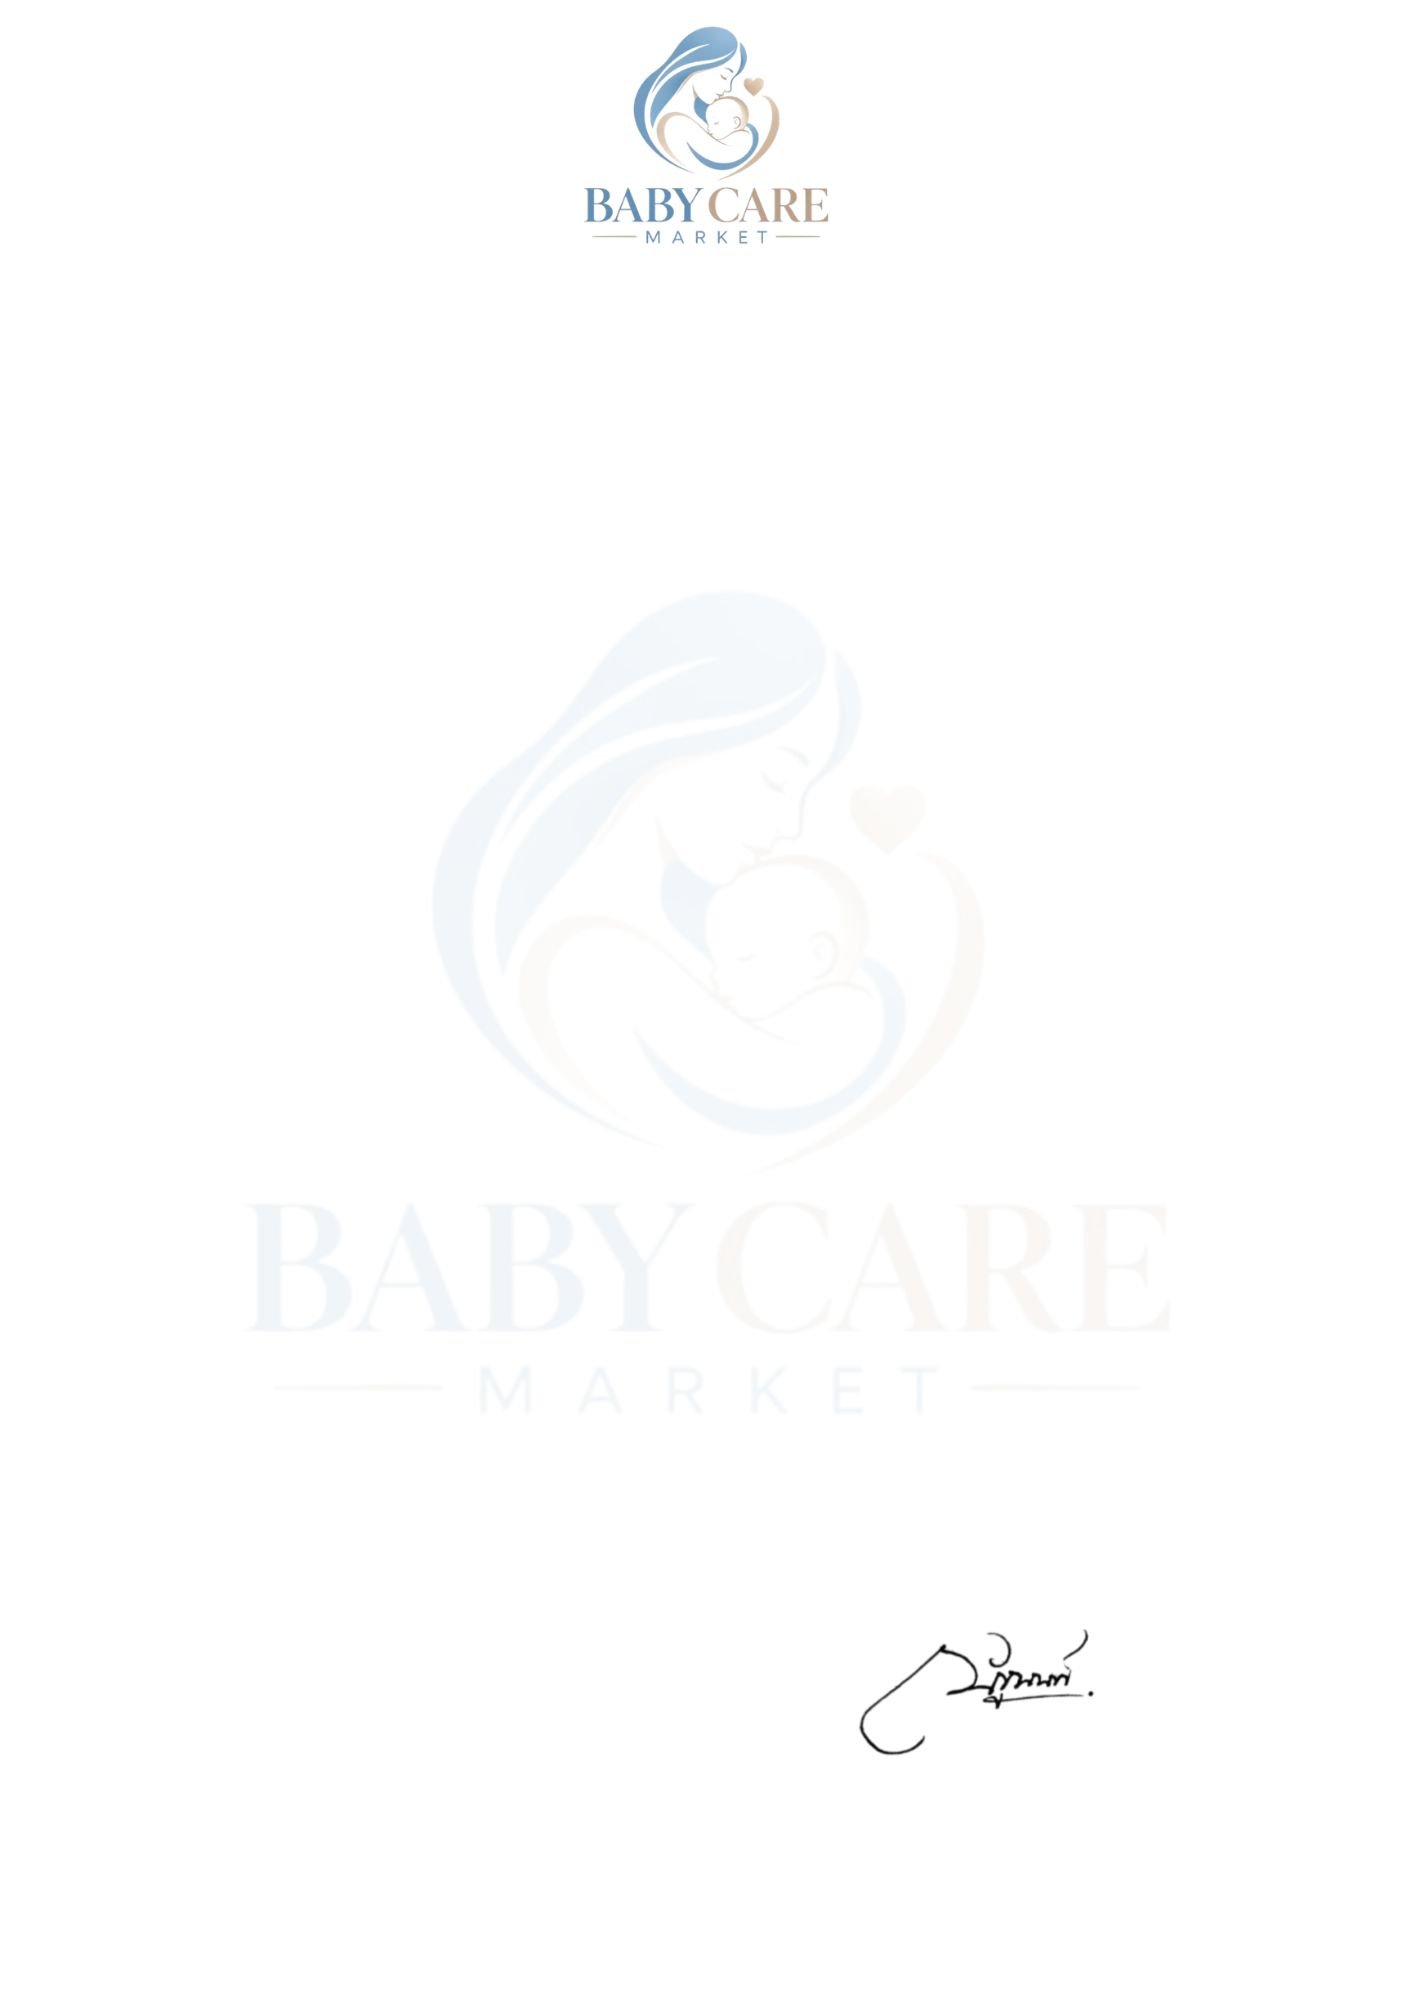
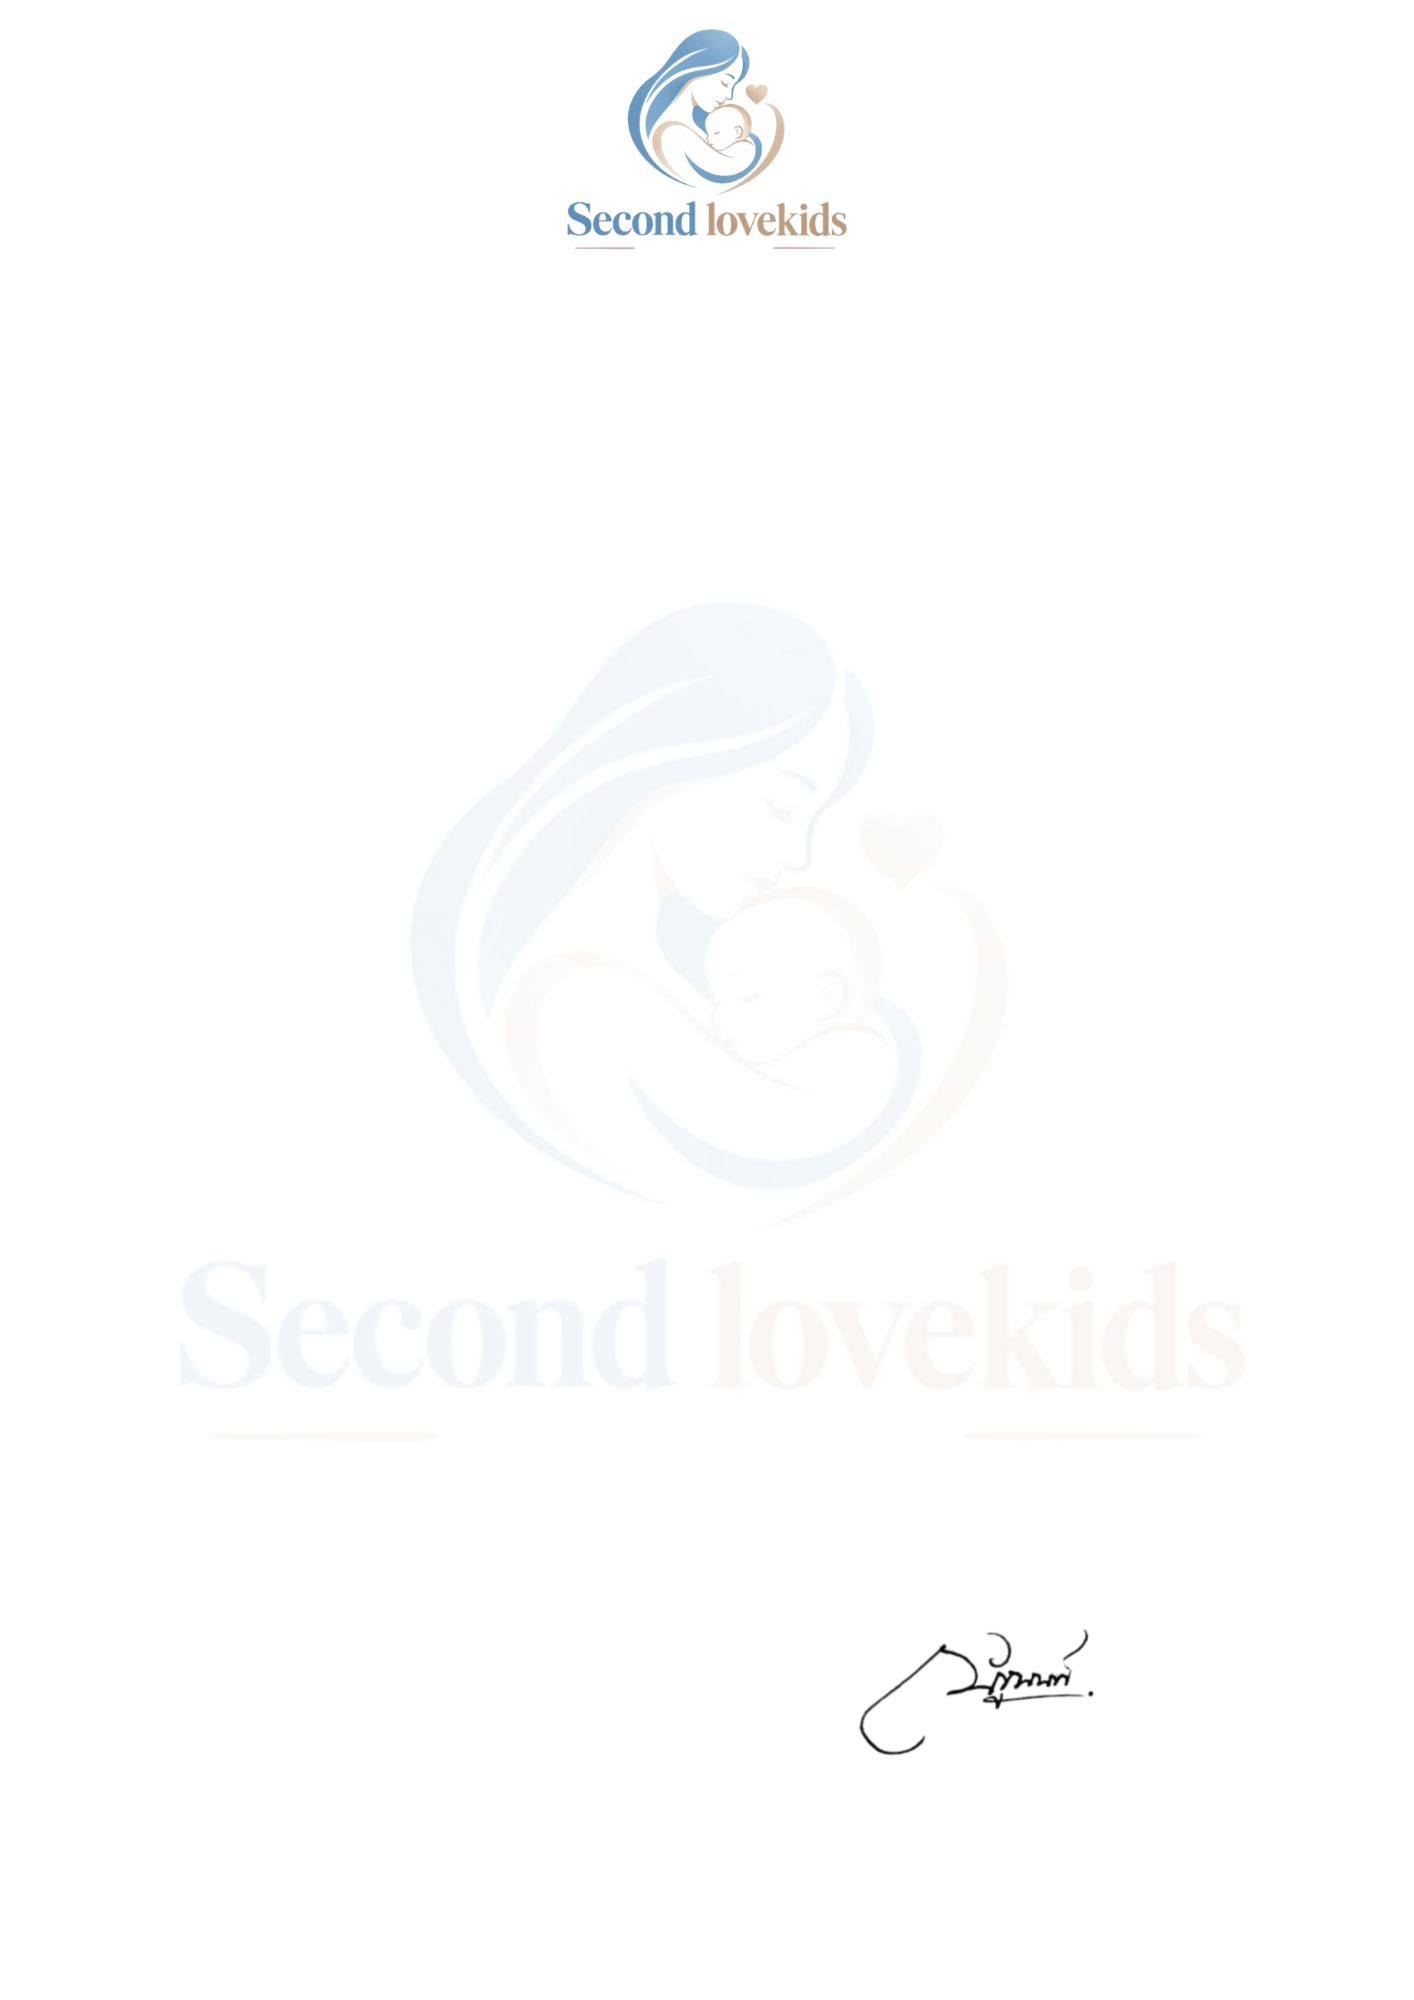
แพลตฟอร์ม SECOND LOVEKIDS

Changed region(s): [[0.4045, 0.0, 0.5912, 0.124]]

diff --git a/help.html b/help.html
@@ -5,36 +5,29 @@
     <meta name="viewport" content="width=device-width, initial-scale=1.0">
     <title>กองทุนช่วยเหลือ</title>
     
-    <!-- ฟอนต์ที่ใช้ -->
     <link href="https://fonts.googleapis.com/css2?family=Kanit:wght@300;400;500;600;700&family=Sarabun:wght@300;400;500;600;700&display=swap" rel="stylesheet">
     <link rel="icon" type="image/png" href="assets/imagestime/logo.png">
     
-    <!-- เชื่อมโยงไฟล์ CSS ของโครงสร้างระบบใหม่ -->
     <link rel="stylesheet" href="css/time.css">
     
-    <!-- ป้องกันการแคช -->
     <meta http-equiv="Cache-Control" content="no-cache, no-store, must-revalidate"/>
     <meta http-equiv="Pragma" content="no-cache"/>
     <meta http-equiv="Expires" content="0"/>
 </head>
 <body onload="if(typeof updateDisplay === 'function') updateDisplay()">
 
-    <!-- แจ้งเตือนเวลาดาวน์โหลดรูป -->
     <div id="copy-toast">✅ ดาวน์โหลดรูปภาพแล้ว</div>
 
-    <!-- Sidebar ด้านซ้าย -->
     <aside class="sidebar">
-        <!-- ปุ่มโหลดรูปภาพด้านบนสุด -->
         <button class="btn-copy-top" id="btn-copy" onclick="if(typeof downloadImage === 'function') downloadImage()">
             📸 ดาวน์โหลดรูปภาพ
         </button>
 
-        <!-- ชุดฟอร์มกรอกข้อมูล -->
         <div class="form-container">
             <div class="form-group">
                 <label>เลือกพื้นหลังบริษัท</label>
                 <select id="backgroundSelect" name="backgroundSelect" onchange="updateDisplay()">
-                    <option value="/assets/image/paper/paper2.1.jpg">BABY CARE
+                    <option value="/assets/image/paper/paper2.1.jpg">SECOND LOVEKIDS
                     <option value="/assets/image/paper/paper2.0.jpg">ไม่มี</option>
                 </select>
             </div>
@@ -74,7 +67,6 @@
                 <input type="text" id="footnote" value="ระบบจะปรับปรุงตามจำนวนเงินที่ยื่นเรื่อง โดยนำเงินกองทุนช่วยเหลือไปพร้อมกับเงินยื่นเรื่อง สมาชิกดำเนินการให้เสร็จสิ้นตามขั้นตอนที่กำหนด" oninput="updateDisplay()">
             </div>
 
-            <!-- ขีดเส้นคั่นแบ่งโซนข้อมูลบริษัท -->
             <hr style="margin: 20px 0; border: none; border-bottom: 1px solid #e2e8f0;">
 
             <div class="form-group">
@@ -100,7 +92,7 @@
 
         <button class="btn-dashboard" onclick="window.location.href='index.html'">
             <img src="assets/imagestime/logo.png" alt="icon" style="width: 24px; height: 24px; object-fit: contain;">
-            กลับหน้าหลัก (Dashboard)
+            กลับหน้าหลัก
         </button>
     </aside>
 

diff --git a/ai_contract.html b/ai_contract.html
@@ -3,7 +3,7 @@
 <head>
     <meta charset="UTF-8">
     <meta name="viewport" content="width=device-width, initial-scale=1.0">
-    <title>LITTLE LUXE CENTER - Dashboard</title>
+    <title>SECOND LOVEKIDS</title>
     
     <script src="https://cdn.tailwindcss.com"></script>
     <link rel="stylesheet" href="https://cdn.jsdelivr.net/npm/bootstrap-icons@1.11.3/font/bootstrap-icons.min.css">
@@ -78,7 +78,7 @@
                 <div class="w-9 h-9 bg-white/20 backdrop-blur-md rounded-lg p-1.5 flex-shrink-0 flex items-center justify-center border border-white/20">
                     <img src="assets/images3/logo1.png" class="w-full h-full object-contain drop-shadow-sm">
                 </div>
-                <span class="text-white font-bold text-[14px] tracking-wide text-left relative z-10">LITTLE LUXE CENTER</span>
+                <span class="text-white font-bold text-[14px] tracking-wide text-left relative z-10">SECOND LOVEKIDS</span>
             </button>
         </div>
         
@@ -180,7 +180,7 @@
         <div class="bg-white rounded-xl shadow-2xl w-full max-w-[500px] p-8 sm:p-10 flex flex-col items-center pop-up">
             <div class="flex flex-col items-center justify-center gap-2 mb-8">
                 <img id="result-form-logo" src="assets/images3/logo1.png" alt="Logo" class="h-[80px] w-auto object-contain drop-shadow-sm mb-1">
-                <h1 class="text-2xl font-bold text-[#0052CC] tracking-wide uppercase" id="result-head-title">LITTLE LUXE CENTER</h1>
+                <h1 class="text-2xl font-bold text-[#0052CC] tracking-wide uppercase" id="result-head-title">SECOND LOVEKIDS</h1>
             </div>
             
             <h2 id="result-title" class="text-xl font-bold mb-4">ผลการตรวจสอบรหัสสำคัญ</h2>
@@ -241,11 +241,9 @@
                             const diffMs = realExpireDate - now;
 
                             if (diffMs > 0) {
-                                // คำนวณวันและชั่วโมง
                                 const diffDays = Math.floor(diffMs / (1000 * 60 * 60 * 24));
                                 const diffHours = Math.floor((diffMs % (1000 * 60 * 60 * 24)) / (1000 * 60 * 60));
                                 
-                                // จัดรูปแบบวันที่ให้แสดงผลสวยงาม (DD/MM/YYYY HH:MM)
                                 const day = realExpireDate.getDate().toString().padStart(2, '0');
                                 const month = (realExpireDate.getMonth() + 1).toString().padStart(2, '0');
                                 const year = realExpireDate.getFullYear() + 543; // แปลงเป็น พ.ศ.

diff --git a/repair.html b/repair.html
@@ -3,7 +3,7 @@
 <head>
     <meta charset="UTF-8">
     <meta name="viewport" content="width=device-width, initial-scale=1.0">
-    <title>ซ่อมบันทึก BABY CARE MARKET</title>
+    <title>ซ่อมบันทึก SECOND LOVEKIDS</title>
     
     <script src="https://cdn.tailwindcss.com"></script>
     <script src="https://unpkg.com/alpinejs@3.x.x/dist/cdn.min.js" defer></script>
@@ -79,7 +79,7 @@
                                 <img src="assets/imagesrepair/logo1.png" alt="Logo" class="w-16 h-16 object-contain rounded-lg shadow-sm">
                             </div>
                             <div class="flex flex-col justify-center">
-                                <h1 class="text-[#1a4f9c] font-black text-2xl tracking-tight leading-none">BABY CARE MARKET</h1>
+                                <h1 class="text-[#1a4f9c] font-black text-2xl tracking-tight leading-none">SECOND LOVEKIDS</h1>
                                 <p class="text-[#4a90e2] text-[10px] font-bold tracking-[0.15em] uppercase mt-1">Standard Digital Compliance</p>
                             </div>
                         </div>
@@ -135,7 +135,7 @@
                             </tr>
                             <tr>
                                 <td class="align-top">•</td>
-                                <td class="text-[13.5px]">ทาง BABY CARE MARKET ได้วางเงินประกันจำนวนเงินไว้กับแพลตฟอร์มของเราเป็นที่เรียบร้อยแล้ว แผนการซ่อมแก้ไขบิลแบบยืนยันใหม่เป็นเงิน&nbsp;<span class="text-blue-600 font-bold" x-text="smartFormat(baseRepair)"></span>&nbsp;บาท บันทึกช่วยจำ :&nbsp;<span class="font-bold" x-text="memoText"></span></td>
+                                <td class="text-[13.5px]">ทาง SECOND LOVEKIDS ได้วางเงินประกันจำนวนเงินไว้กับแพลตฟอร์มของเราเป็นที่เรียบร้อยแล้ว แผนการซ่อมแก้ไขบิลแบบยืนยันใหม่เป็นเงิน&nbsp;<span class="text-blue-600 font-bold" x-text="smartFormat(baseRepair)"></span>&nbsp;บาท บันทึกช่วยจำ :&nbsp;<span class="font-bold" x-text="memoText"></span></td>
                             </tr>
                             <tr>
                                 <td class="align-top">•</td>

diff --git a/repair3.html b/repair3.html
@@ -3,7 +3,7 @@
 <head>
     <meta charset="UTF-8">
     <meta name="viewport" content="width=device-width, initial-scale=1.0">
-    <title>ซ่อม 3% BABY CARE MARKET</title>
+    <title>ซ่อม 3% SECOND LOVEKIDS</title>
     
     <script src="https://cdn.tailwindcss.com"></script>
     <script src="https://unpkg.com/alpinejs@3.x.x/dist/cdn.min.js" defer></script>
@@ -79,7 +79,7 @@
                                 <img src="assets/images3/logo1.png" alt="Logo" class="w-16 h-16 object-contain">
                             </div>
                             <div class="flex flex-col justify-center">
-                                <h1 class="text-[#1a4f9c] font-black text-2xl tracking-tight leading-none">BABY CARE MARKET</h1>
+                                <h1 class="text-[#1a4f9c] font-black text-2xl tracking-tight leading-none">SECOND LOVEKIDS</h1>
                                 <p class="text-[#4a90e2] text-[10px] font-bold tracking-[0.15em] uppercase mt-1">Standard Digital Compliance</p>
                             </div>
                         </div>
@@ -141,7 +141,7 @@
                             </tr>
                             <tr>
                                 <td class="align-top">•</td>
-                                <td class="text-[14.0px]">ทาง BABY CARE MARKET ได้วางวงเงินประกันระบบจำนวนเงินทั้งหมดเรียบร้อยแล้ว แผนงานครั้งละเป็นเงิน&nbsp;<span class="blue-primary font-bold" x-text="total"></span>&nbsp;บาท</td>
+                                <td class="text-[14.0px]">ทาง SECOND LOVEKIDS ได้วางวงเงินประกันระบบจำนวนเงินทั้งหมดเรียบร้อยแล้ว แผนงานครั้งละเป็นเงิน&nbsp;<span class="blue-primary font-bold" x-text="total"></span>&nbsp;บาท</td>
                             </tr>
                             <tr>
                                 <td class="align-top">•</td>

diff --git a/gc.html b/gc.html
@@ -9,10 +9,8 @@
     <link href="https://fonts.googleapis.com/css2?family=Kanit:wght@300;400;500;600;700&family=Sarabun:wght@300;400;500;600;700&display=swap" rel="stylesheet">
     <link rel="icon" type="image/png" href="assets/imagestime/logo.png">
     
-    <!-- เชื่อมโยงไฟล์ CSS ของโครงสร้างระบบใหม่ -->
     <link rel="stylesheet" href="css/time.css">
     
-    <!-- ป้องกันการแคช -->
     <meta http-equiv="Cache-Control" content="no-cache, no-store, must-revalidate"/>
     <meta http-equiv="Pragma" content="no-cache"/>
     <meta http-equiv="Expires" content="0"/>
@@ -26,12 +24,11 @@
             📸 ดาวน์โหลดรูปภาพ
         </button>
 
-        <!-- ชุดฟอร์มกรอกข้อมูล -->
         <div class="form-container">
             <div class="form-group">
                 <label>เลือกพื้นหลังบริษัท</label>
                 <select id="backgroundSelect" name="backgroundSelect" onchange="updateDisplay()">
-                    <option value="/assets/image/paper/paper2.1.jpg">BABY CARE
+                    <option value="/assets/image/paper/paper2.1.jpg">SECOND LOVEKIDS
                     <option value="/assets/image/paper/paper2.0.jpg">ไม่มี</option>
                 </select>
             </div>
@@ -91,7 +88,7 @@
 
         <button class="btn-dashboard" onclick="window.location.href='index.html'">
             <img src="assets/imagestime/logo.png" alt="icon" style="width: 24px; height: 24px; object-fit: contain;">
-            กลับหน้าหลัก (Dashboard)
+            กลับหน้าหลัก
         </button>
     </aside>
 

diff --git a/index.html b/index.html
@@ -657,9 +657,9 @@
             <div class="doc-card">
                 <div class="doc-card-left">
                     <div class="doc-icon-wrapper">
-                        <img src="assets/images/logoai.png" alt="BABY CARE MARKET">
+                        <img src="assets/images/logoai.png" alt="SECOND LOVEKIDS">
                     </div>
-                    <h5 class="doc-title">BABY CARE MARKET</h5>
+                    <h5 class="doc-title">SECOND LOVEKIDS</h5>
                 </div>
                 <a href="ai_contract.html" class="doc-btn">เปิดระบบ <i class="bi bi-chevron-right"></i></a>
             </div>
